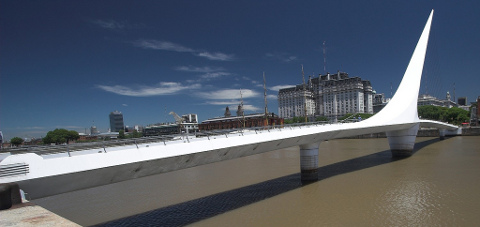
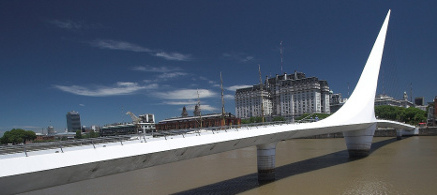
Mejoro un poco la imagen

diff --git a/index.html b/index.html
@@ -29,7 +29,7 @@
 
 			<div data-role="content">
 				<div class="content-primary">
-			    <img src="assets/img/puente-pto-madero.jpg" style="min-width: 100%; margin: -15px; padding-bottom: 26px"/>
+			    <img src="assets/img/puente-pto-madero.jpg" style="width: 120%; margin: -15px 0 0 -15px;"/>
 					<ul data-role="listview" data-filter="false">
 						<li><a href="#detail">ADUANA<span class="ui-li-count">9</span></a></li>
 						<li><a href="#detail">TRIBUNALES<span class="ui-li-count">20</span></a></li>
